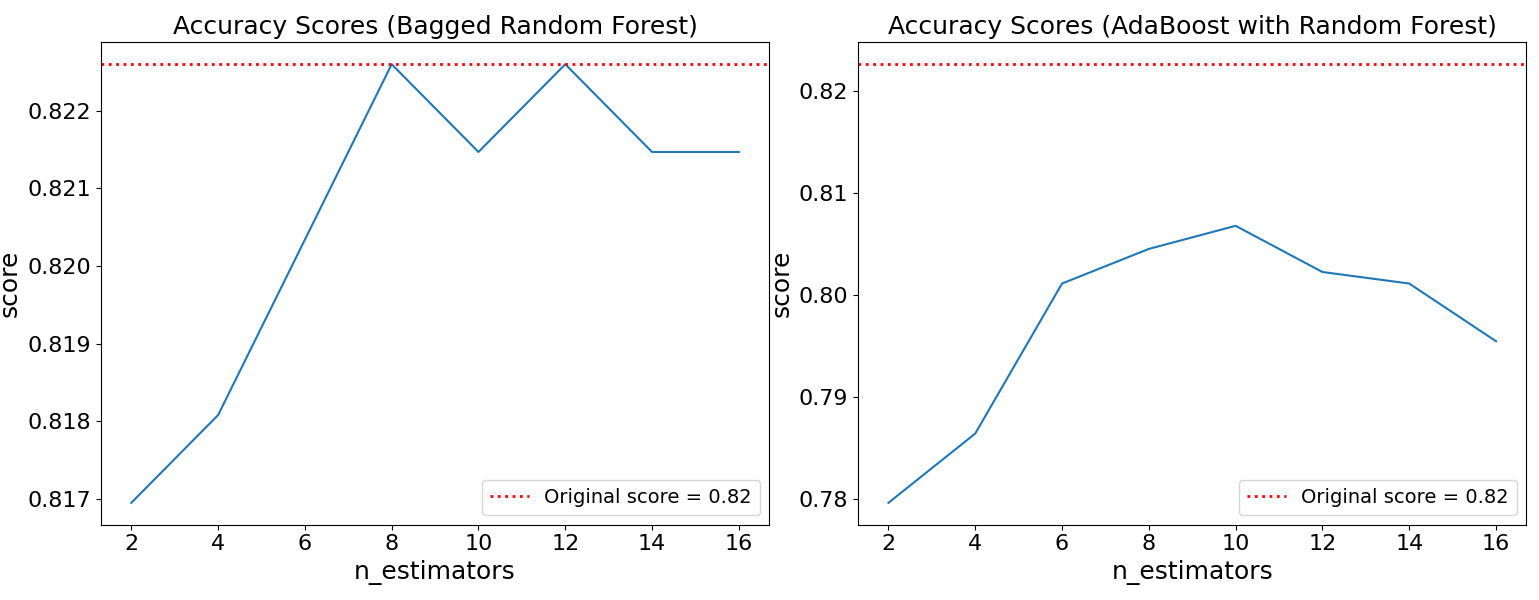
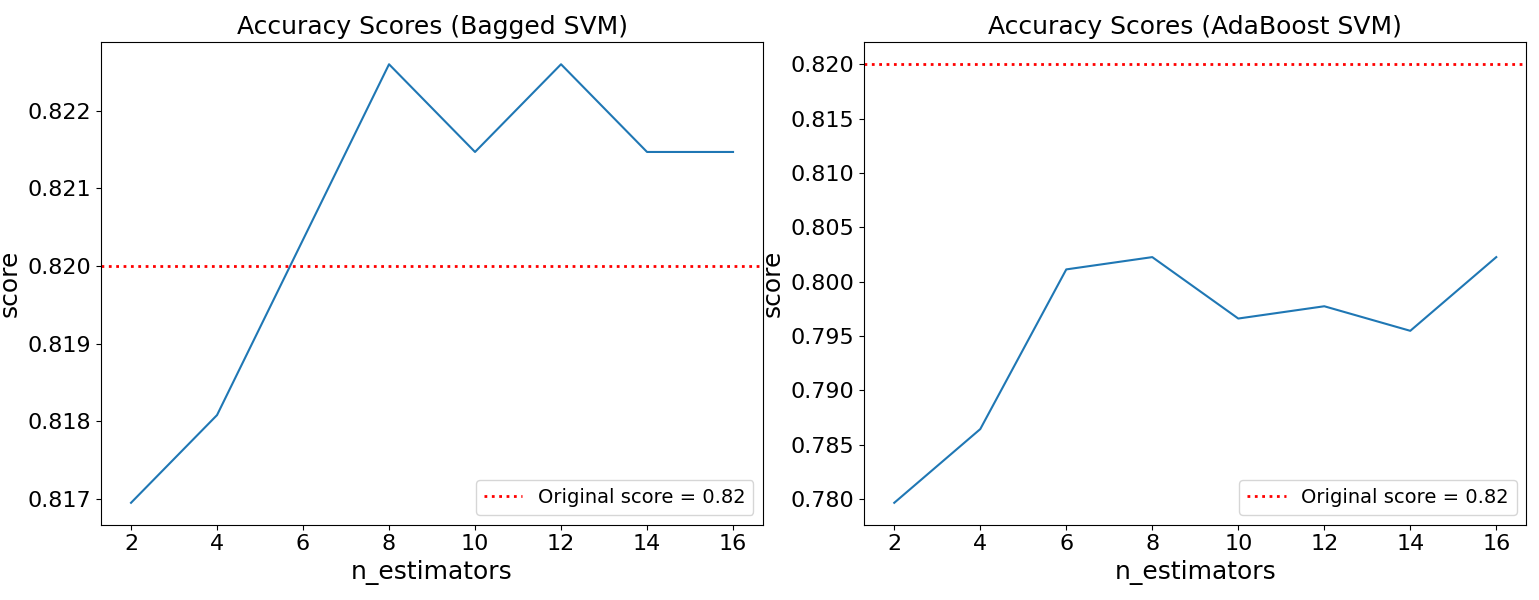
cleanup plot

diff --git a/MLtasks/svm.py b/MLtasks/svm.py
@@ -170,7 +170,7 @@ org_acc = round(accuracy_score(y_test, pred_linear), 2)
 
 # First plot
 axes[0].plot(estimator_range, scoresBag)
-axes[0].set_title("Accuracy Scores (Bagged Random Forest)", fontsize=18)
+axes[0].set_title("Accuracy Scores (Bagged SVM)", fontsize=18)
 axes[0].set_xlabel("n_estimators", fontsize=18)
 axes[0].set_ylabel("score", fontsize=18)
 axes[0].tick_params(labelsize=16)
@@ -181,7 +181,7 @@ axes[0].legend(fontsize=14)  # Add legend for the label
 
 # Second plot
 axes[1].plot(estimator_range, scoresBoost)
-axes[1].set_title("Accuracy Scores (AdaBoost with Random Forest)", fontsize=18)
+axes[1].set_title("Accuracy Scores (AdaBoost SVM)", fontsize=18)
 axes[1].set_xlabel("n_estimators", fontsize=18)
 axes[1].set_ylabel("score", fontsize=18)
 axes[1].tick_params(labelsize=16)
